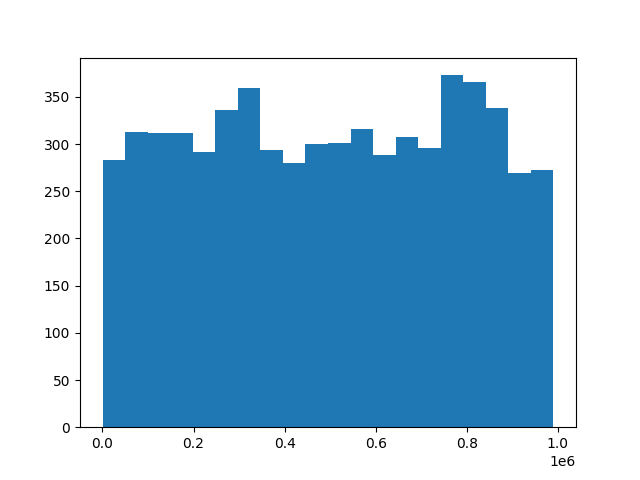
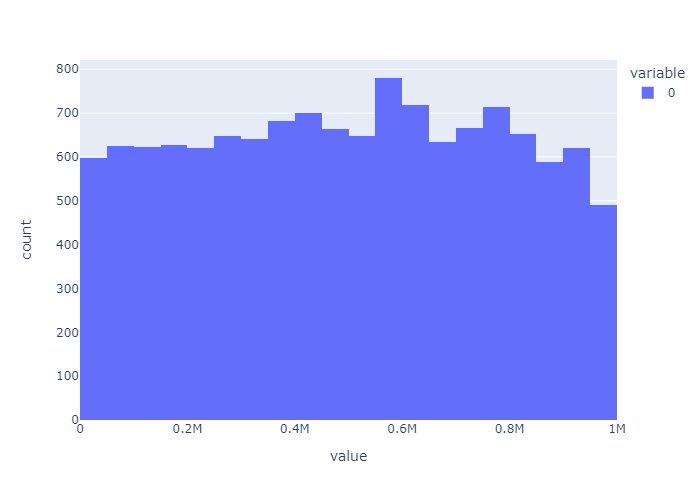
made on plotly and added chapter quotation

diff --git a/tweepyl.py b/tweepyl.py
@@ -3,7 +3,9 @@ import random
 import time
 import os
 from dotenv import load_dotenv
-import matplotlib.pyplot as plt
+# import matplotlib.pyplot as plt
+import plotly.express as px
+import numpy as np
 
 from test import quoteimage
 
@@ -11,8 +13,7 @@ from test import quoteimage
 #Wrong request answer //done
 #histograma de frecuencia de una sílaba//done
 #quotes al revés//done
-#hacerlo con plotly
-#si hago videos, que lo narre con voz de loquendo
+#hacerlo con plotly//done
 
 load_dotenv()
 
@@ -24,9 +25,21 @@ api=tweepy.API(auth, wait_on_rate_limit=True)
 bookpath="./libro.txt"
 file = open(bookpath, "r", encoding="utf-8").read()
 
-def tweet_quote(index=0, len_of_quote=200, id=None, reverse=False):
+def tweet_quote(index=0, len_of_quote=200, id=None, reverse=False, inchapter=None):
     if not index:
         index=int(random.random()*(len(file)-len_of_quote))
+    if inchapter:
+        word="Capítulo"
+        capital_letter_indexes=[index for index, value in enumerate(file) if value == word[0]]
+        chap_indexes=[]
+        for index in capital_letter_indexes:
+            for i, _ in enumerate(word):
+                if not file[index+i]==word[i]:
+                    break
+            else:
+                chap_indexes.append(index)
+            chap_indexes.append(len(file))#to not have problems with last chapter
+        index=chap_indexes[inchapter+1]+index%(chap_indexes[inchapter+2]-chap_indexes[inchapter+1])
     quote=file[index:index+len_of_quote]
     try:
         # api.update_status_(quote, in_reply_to_status_id=id)
@@ -44,8 +57,11 @@ def sylhist(syl, bins=20):
                 break
         else:
             word_indexes.append(index)
-    plt.hist(word_indexes, bins=bins)
-    plt.savefig("./plot.png")
+    try:
+        fig = px.histogram(np.array(word_indexes), nbins=bins)
+        fig.write_image("./plot.png")
+    except Exception as e:
+        print(e)
 
 def countword(word):
     capital_letter_indexes=[index for index, value in enumerate(file) if value == word[0]]
@@ -77,6 +93,8 @@ def mainloop(hours):
                     if command[0]=="cita":
                         if command[2]=="reverso":
                             tweet_quote(index=int(command[1][8:]), id=mention.id, reverse=True)
+                        elif command[2][:8]=="capítulo=":
+                            tweet_quote(index=int(command[1][8:]), id=mention.id, inchapter=int(command[2][8:]))
                         else:
                             tweet_quote(index=int(command[1][8:]), id=mention.id)
                     elif command[0]=="contar":

diff --git a/test.py b/test.py
@@ -11,7 +11,7 @@ def quoteimage(book, rn=0, reverse=False):
     nlines=quote.count("\n")
     print(nlines)
 
-    out = Image.new("RGB", (270, nlines*15-5), (255, 255, 255))
+    out = Image.new("RGB", (270, nlines*15+25), (255, 255, 255))
     d = ImageDraw.Draw(out)
     d.multiline_text((10, 10), quote, fill=(0, 0, 0))
 
